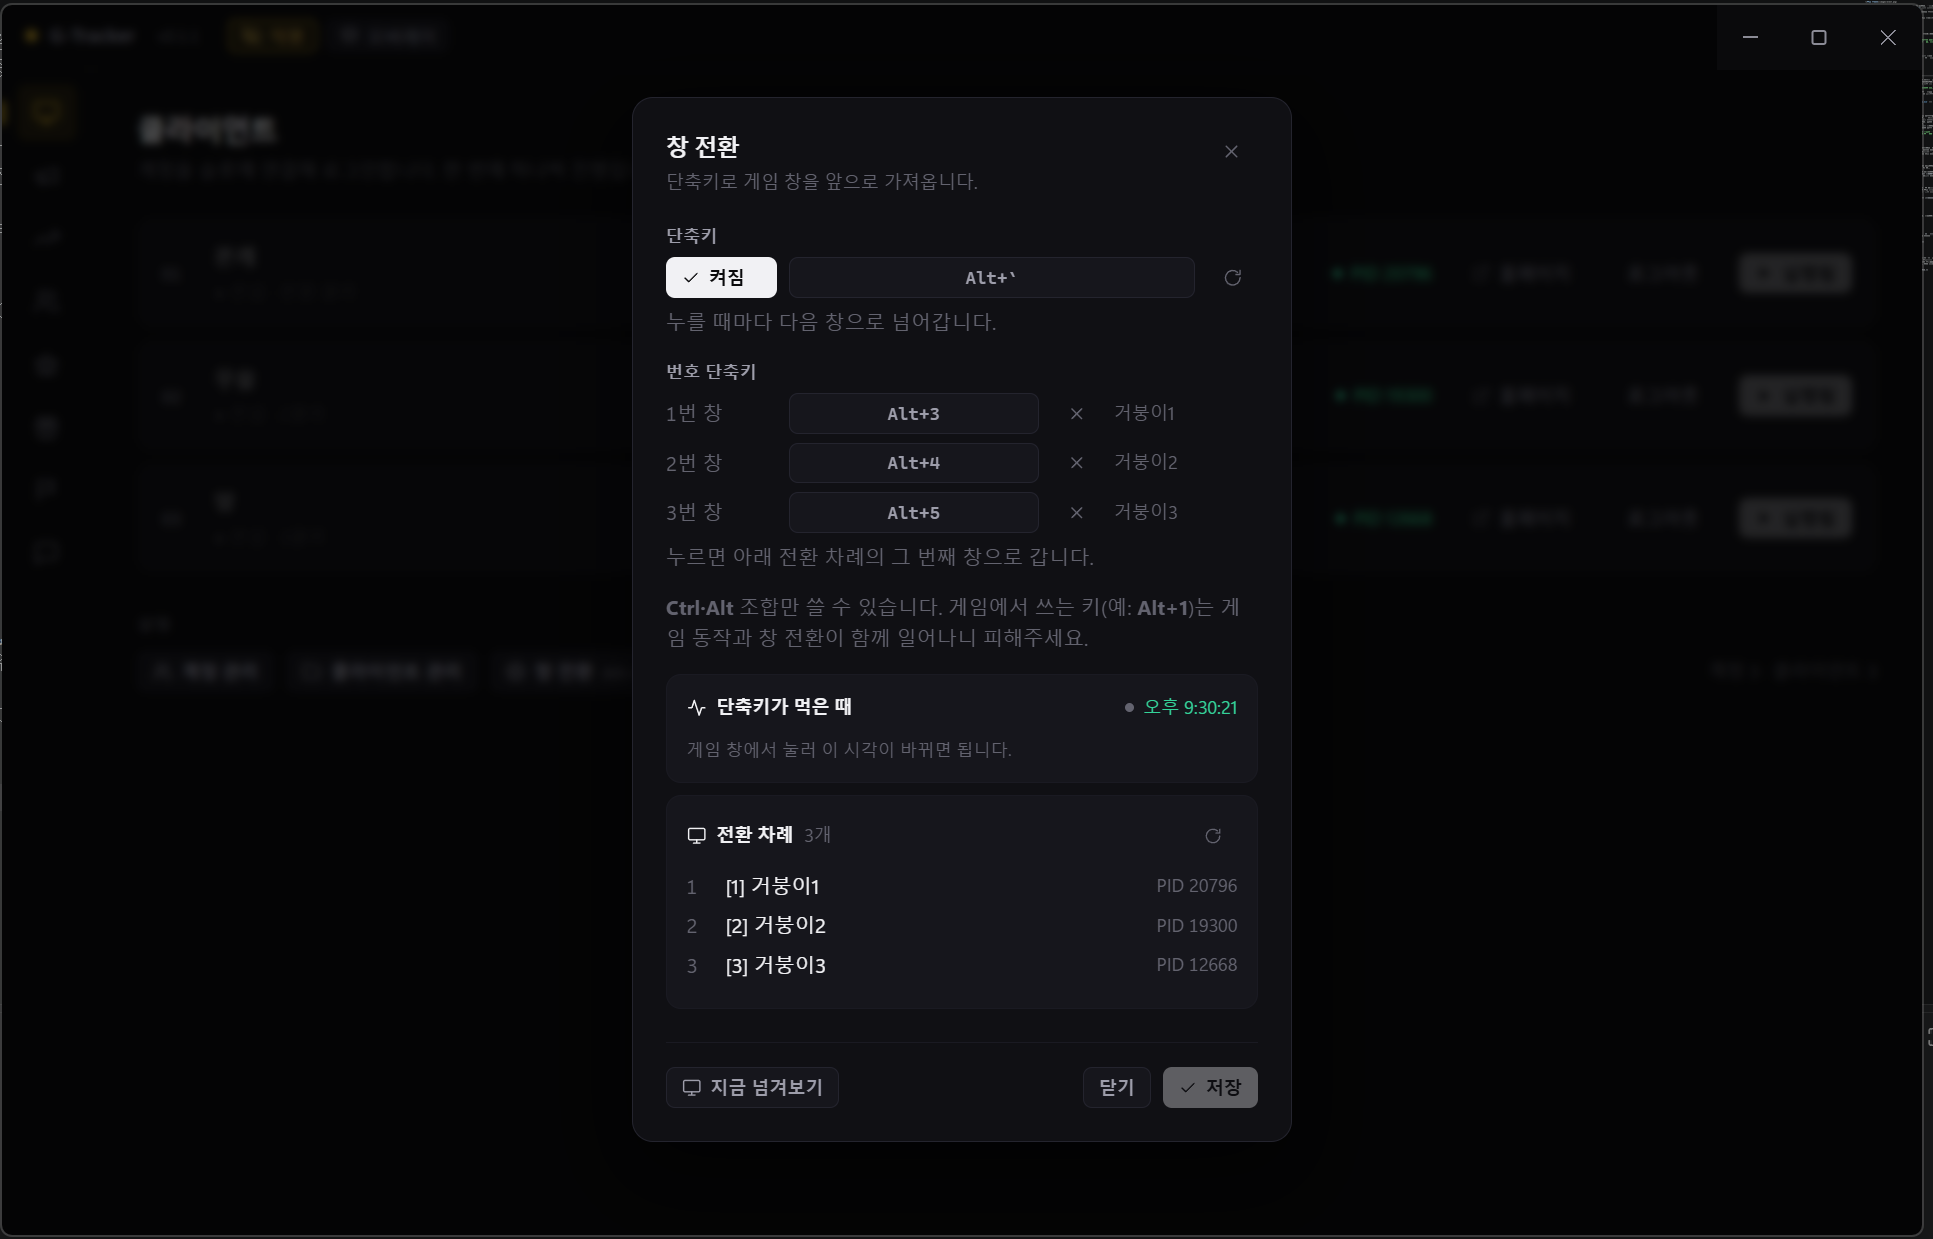
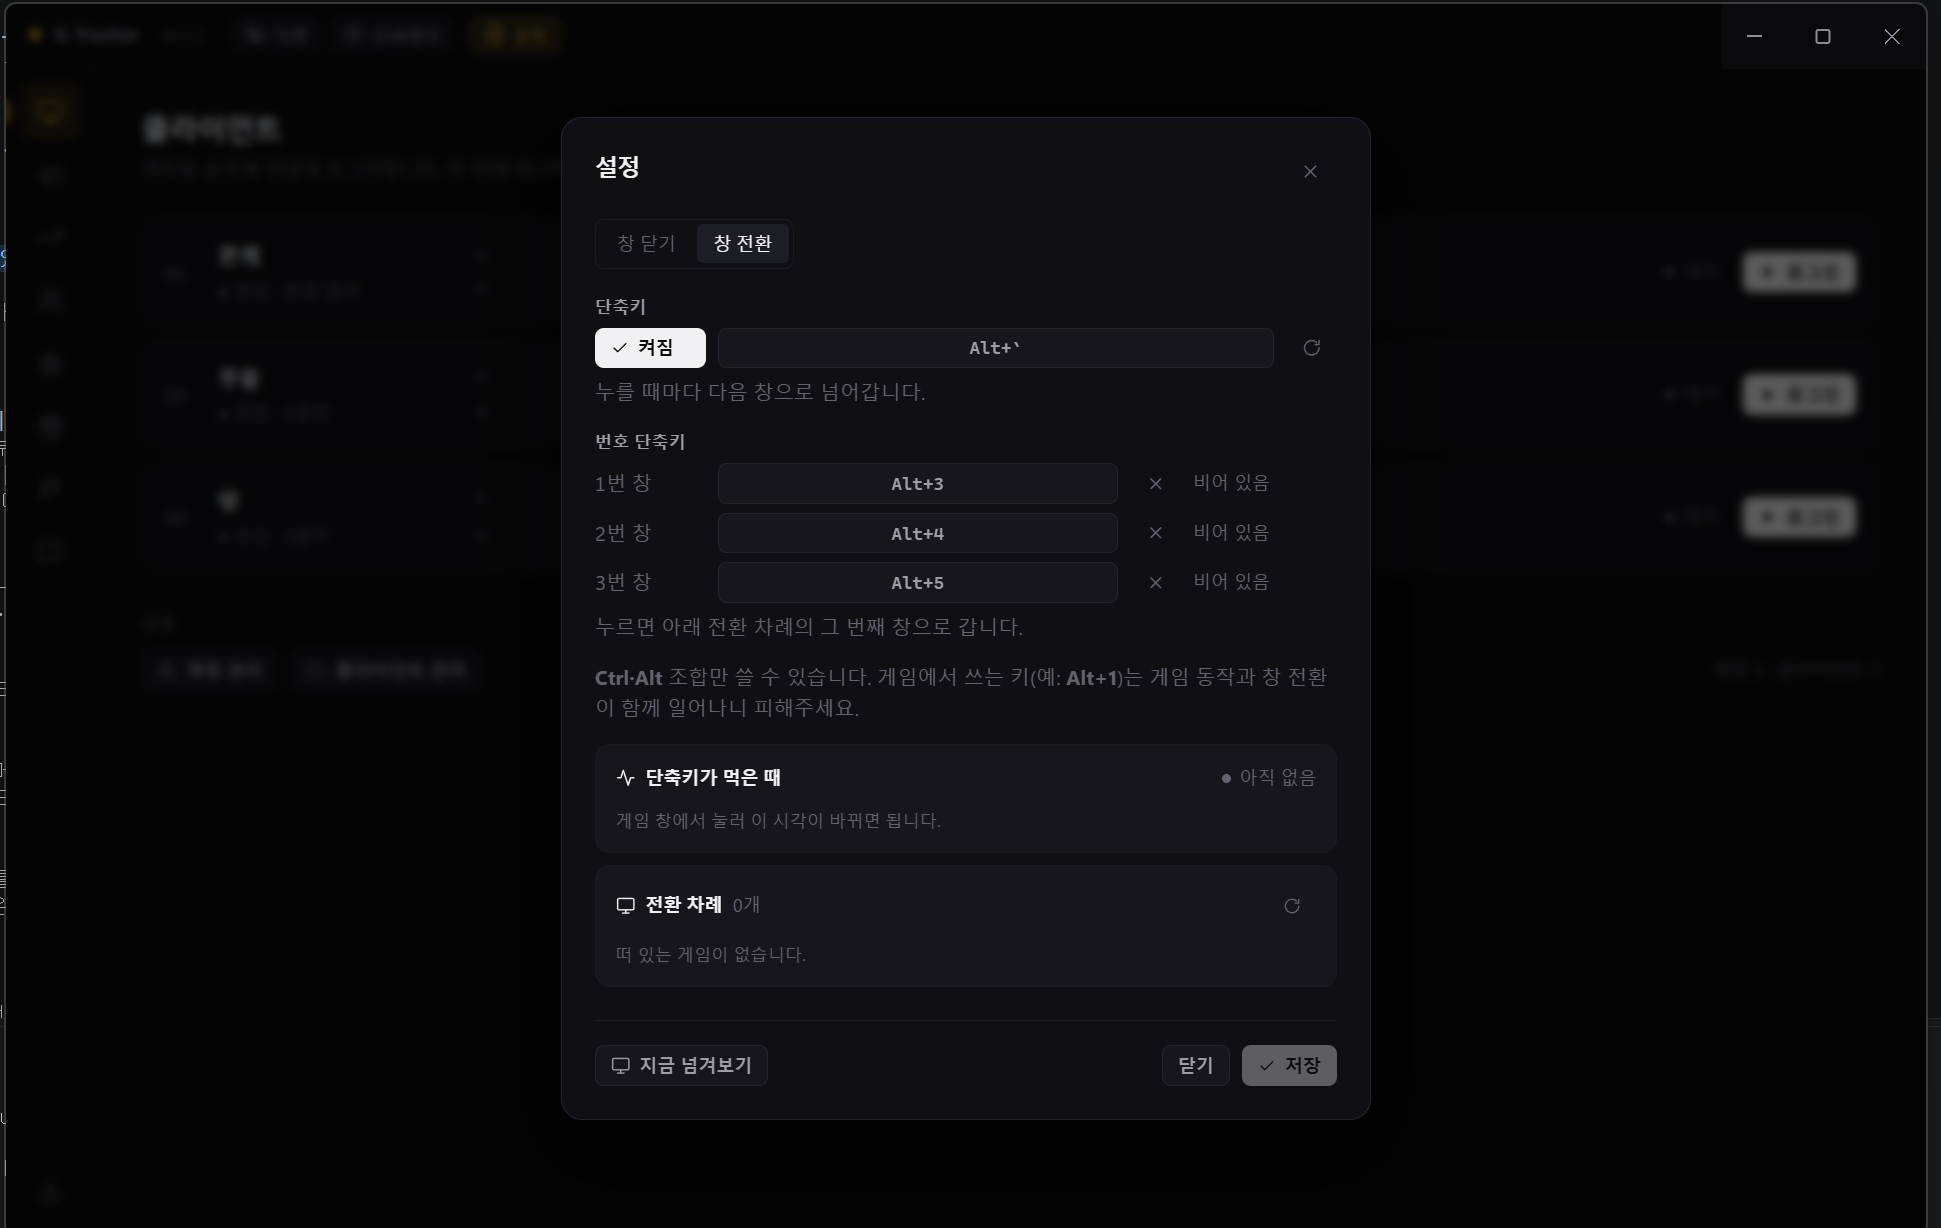
fixed: readme.md updated

diff --git a/README.md b/README.md
@@ -99,12 +99,6 @@ OTP 를 쓰는 계정은 그 줄이 인증번호 입력 칸으로 바뀝니다. 
 
 **클라이언트 관리** — 거상을 설치한 폴더를 원본으로 지정하고, 다클라 폴더를 만듭니다.
 
-![창 전환](images/client-focus.png)
-
-**창 전환** — 단축키로 게임 창을 앞으로 가져오는 설정입니다. 누를 때마다 다음 창으로 넘기는 키와,
-1·2·3번째 창으로 곧장 가는 번호 키를 둘 수 있습니다. 키는 Ctrl·Alt 조합만 쓰며, 게임에서 쓰는 키는
-게임 동작과 창 전환이 함께 일어나니 피해주세요.
-
 ### ② 채팅
 
 ![채팅 탭](images/chat.png)
@@ -182,6 +176,23 @@ OTP 를 쓰는 계정은 그 줄이 인증번호 입력 칸으로 바뀝니다. 
 
 게임 위에 반투명하게 얹는 작은 창입니다. 사냥하는 동안 앱으로 창을 바꾸지 않고도 수익·경험치
 같은 값을 바로 봅니다. 투명도와 크기를 조절할 수 있고, 보고 싶은 것만 골라 띄웁니다.
+
+### ⑨ 설정
+
+제목 줄 오른쪽의 **⚙** 를 누르면 열립니다. 「창 닫기」와 「창 전환」 두 칸이 있습니다.
+
+![창 닫기 설정](images/tray_setting.png)
+
+**창 닫기** — 오른쪽 위 **✕** 를 눌렀을 때 무엇을 할지 고릅니다. 기본은 **앱 종료**이고, 게임 세션과
+캡처도 함께 꺼집니다. **트레이로 숨기기**를 고르면 창만 사라지고 수집과 오버레이는 계속 돕니다.
+숨긴 뒤에는 알림 영역의 트레이 아이콘을 누르면 다시 열리고, 우클릭 「종료」로 끕니다.
+
+![창 전환 설정](images/client-focus.png)
+
+**창 전환** — 단축키로 게임 창을 앞으로 가져옵니다. 누를 때마다 다음 창으로 넘어가는 키와,
+1·2·3번 창으로 곧장 가는 번호 키를 따로 둘 수 있습니다. **Ctrl·Alt 조합만** 쓸 수 있으며, 게임에서
+쓰는 키(예: Alt+1)는 게임 동작과 창 전환이 함께 일어나니 피해주세요. 아래 「지금 넘겨보기」로 바로
+시험해 볼 수 있고, 「전환 차례」에 지금 떠 있는 게임이 순서대로 보입니다.
 
 ---
 
